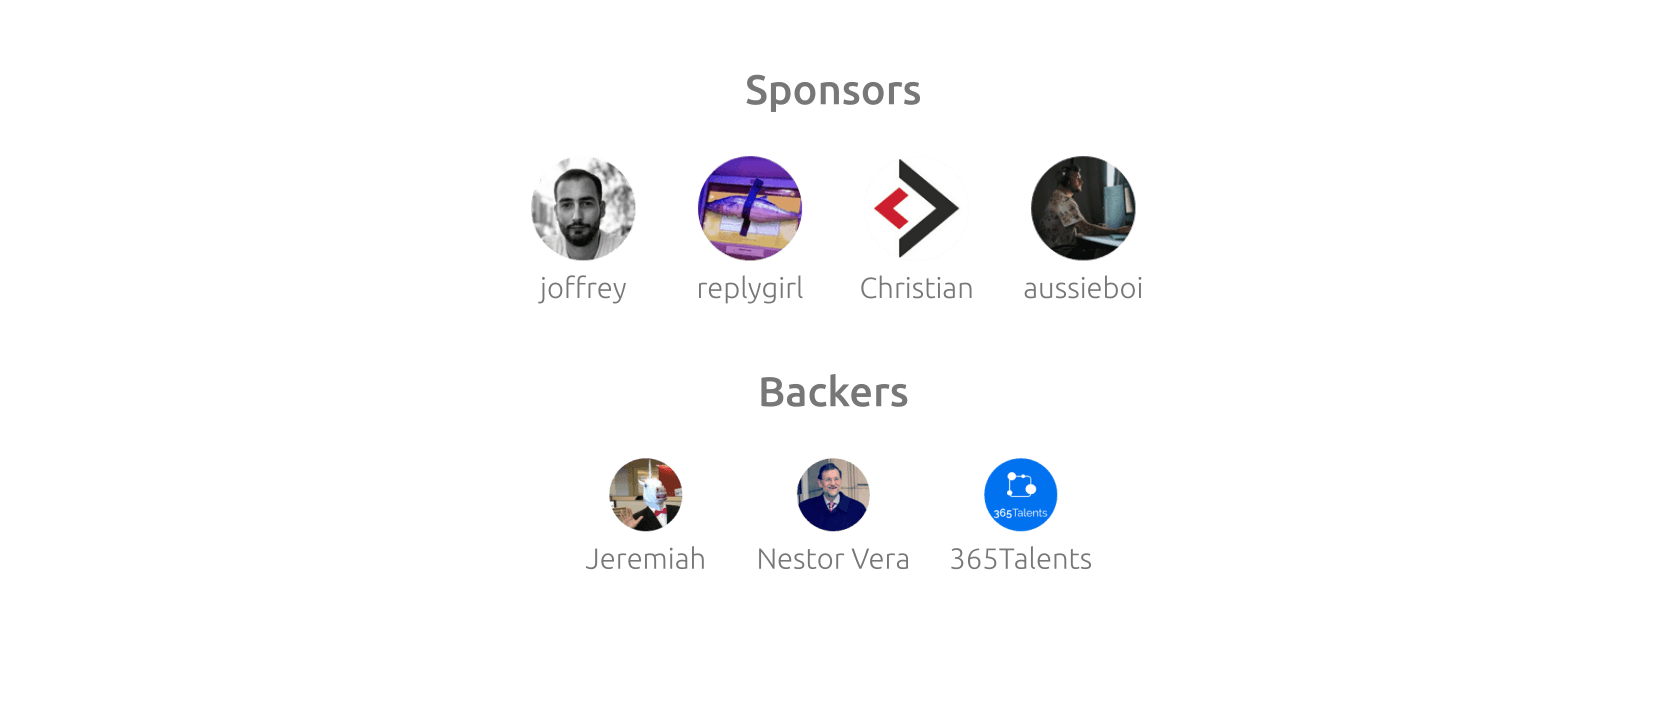
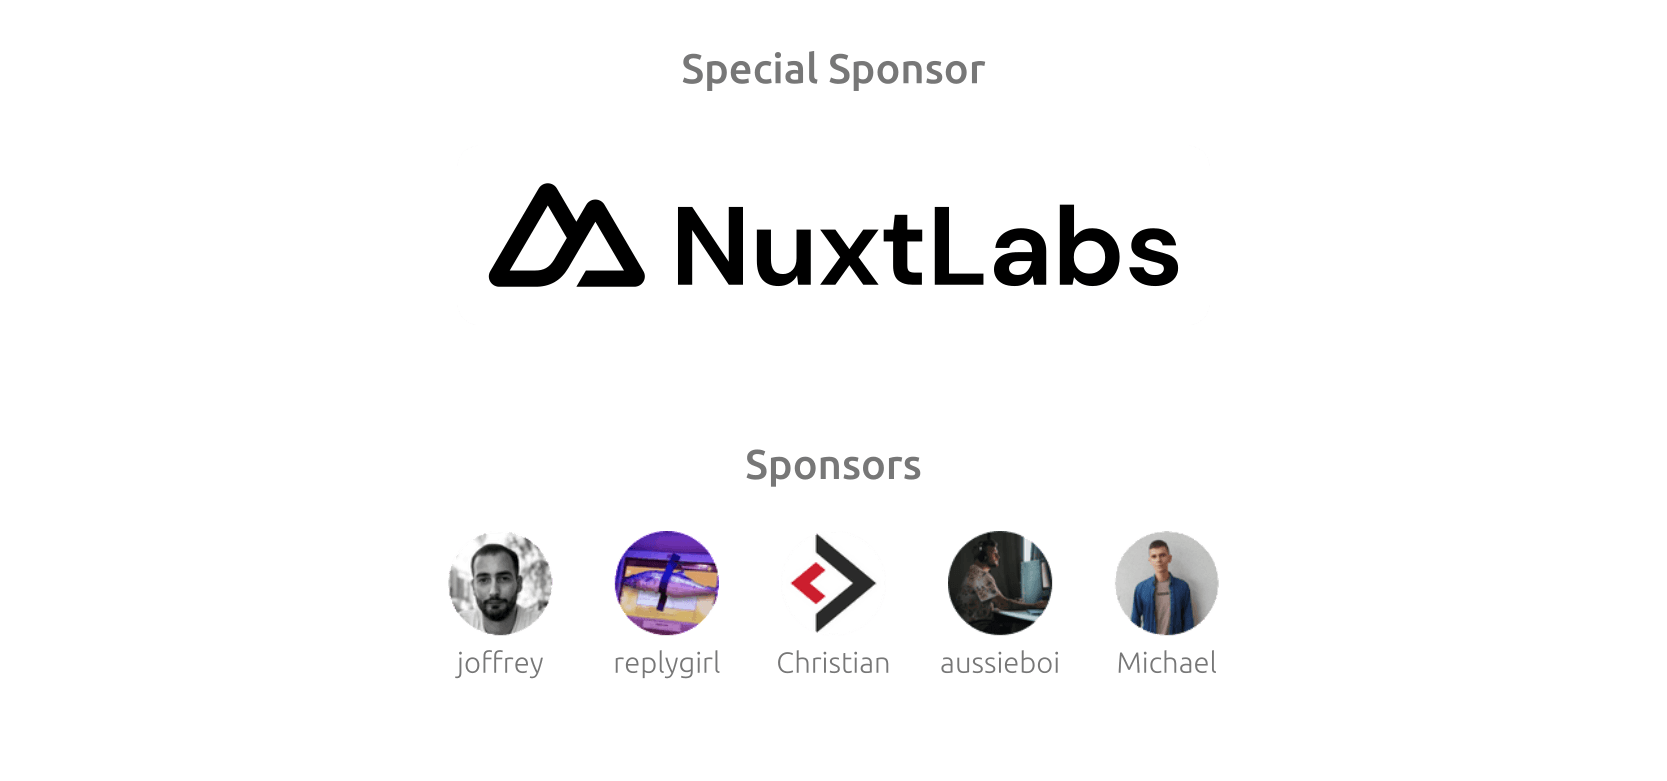
chore: add automation

diff --git a/sponsorkit.config.ts b/sponsorkit.config.ts
@@ -1,0 +1,53 @@
+import { defineConfig, presets } from 'sponsorkit'
+
+const NUXT_LOGO = (width: number, y: number) => `
+<a xlink:href="https://nuxtlabs.com" class="sponsorkit-link" target="_blank" id="NuxtLabs">
+<svg x="${(width - 361)/2}" y="${y}" width="361" height="86" viewBox="0 0 361 86" fill="none" xmlns="http://www.w3.org/2000/svg">
+<path d="M351 0H10C4.47715 0 0 4.47715 0 10V76C0 81.5229 4.47715 86 10 86H351C356.523 86 361 81.5229 361 76V10C361 4.47715 356.523 0 351 0Z" fill="white"/>
+<path d="M105.824 66.7106V29.3546H112.655L130.212 55.6646V29.3546H137.043V66.7106H130.212L112.655 40.4546V66.7106H105.824ZM154.051 67.3506C150.742 67.3506 148.181 66.3196 146.366 64.2556C144.587 62.1926 143.698 59.1686 143.698 55.1836V40.2416H150.475V54.5436C150.475 56.8206 150.938 58.5636 151.863 59.7736C152.788 60.9836 154.247 61.5876 156.239 61.5876C158.125 61.5876 159.672 60.9116 160.882 59.5596C162.127 58.2076 162.75 56.3226 162.75 53.9026V40.2416H169.581V66.7116H163.55L163.016 62.2286C162.198 63.7936 161.006 65.0386 159.441 65.9636C157.911 66.8886 156.114 67.3516 154.051 67.3516V67.3506ZM174.085 66.7106L183.69 53.4756L174.085 40.2416H181.396L188.12 49.6336L194.791 40.2416H202.155L192.496 53.4756L202.155 66.7106H194.791L188.12 57.3186L181.396 66.7106H174.085ZM218.301 66.7106C215.526 66.7106 213.302 66.0346 211.63 64.6826C209.958 63.3306 209.122 60.9296 209.122 57.4786V45.9506H204.586V40.2406H209.122L209.922 33.1426H215.953V40.2406H223.104V45.9506H215.953V57.5306C215.953 58.8116 216.22 59.7006 216.753 60.1996C217.323 60.6616 218.283 60.8926 219.635 60.8926H222.944V66.7096H218.301V66.7106ZM229.129 66.7106V29.3546H235.96V61.3746H252.503V66.7106H229.129ZM267.488 67.3506C265.211 67.3506 263.343 66.9956 261.884 66.2836C260.425 65.5366 259.34 64.5586 258.629 63.3486C257.917 62.1386 257.561 60.8046 257.561 59.3466C257.561 56.8916 258.522 54.8996 260.443 53.3696C262.364 51.8396 265.246 51.0746 269.089 51.0746H275.813V50.4346C275.813 48.6196 275.297 47.2856 274.265 46.4316C273.233 45.5776 271.952 45.1516 270.423 45.1516C269.035 45.1516 267.826 45.4886 266.794 46.1646C265.762 46.8046 265.122 47.7656 264.873 49.0466H258.202C258.38 47.1256 259.02 45.4536 260.123 44.0306C261.261 42.6076 262.72 41.5216 264.499 40.7746C266.278 39.9926 268.27 39.6006 270.476 39.6006C274.247 39.6006 277.218 40.5436 279.388 42.4296C281.558 44.3146 282.644 46.9836 282.644 50.4346V66.7106H276.827L276.186 62.4416C275.404 63.8646 274.301 65.0386 272.878 65.9636C271.49 66.8886 269.693 67.3516 267.488 67.3516V67.3506ZM269.035 62.0146C270.992 62.0146 272.504 61.3746 273.571 60.0936C274.674 58.8136 275.368 57.2296 275.653 55.3436H269.836C268.021 55.3436 266.723 55.6816 265.94 56.3576C265.157 56.9976 264.766 57.7986 264.766 58.7596C264.766 59.7916 265.157 60.5916 265.94 61.1606C266.723 61.7306 267.754 62.0146 269.035 62.0146ZM304.852 67.3506C302.859 67.3506 301.116 66.9776 299.622 66.2306C298.16 65.5119 296.91 64.427 295.993 63.0816L295.246 66.7116H289.162V28.2866H295.993V44.0306C296.847 42.8566 297.968 41.8246 299.355 40.9346C300.778 40.0456 302.61 39.6006 304.852 39.6006C307.342 39.6006 309.566 40.2056 311.523 41.4156C313.479 42.6256 315.027 44.2796 316.165 46.3786C317.304 48.4776 317.873 50.8616 317.873 53.5286C317.873 56.1986 317.304 58.5816 316.165 60.6806C315.027 62.7436 313.479 64.3806 311.523 65.5906C309.566 66.7646 307.342 67.3506 304.852 67.3506ZM303.411 61.3746C305.581 61.3746 307.378 60.6446 308.801 59.1866C310.224 57.7276 310.936 55.8416 310.936 53.5296C310.936 51.2166 310.224 49.3136 308.801 47.8196C307.378 46.3246 305.581 45.5776 303.411 45.5776C301.205 45.5776 299.391 46.3246 297.968 47.8196C296.58 49.2776 295.886 51.1636 295.886 53.4756C295.886 55.7886 296.58 57.6916 297.968 59.1856C299.391 60.6456 301.205 61.3746 303.411 61.3746ZM334.915 67.3506C332.567 67.3506 330.504 66.9776 328.725 66.2306C326.946 65.4476 325.523 64.3806 324.456 63.0286C323.388 61.6766 322.748 60.1116 322.534 58.3326H329.419C329.632 59.3646 330.201 60.2536 331.126 61.0006C332.087 61.7126 333.314 62.0676 334.809 62.0676C336.303 62.0676 337.388 61.7656 338.064 61.1606C338.775 60.5556 339.131 59.8626 339.131 59.0796C339.131 57.9406 338.633 57.1756 337.637 56.7846C336.641 56.3576 335.253 55.9486 333.474 55.5576C332.306 55.3009 331.149 54.9983 330.006 54.6506C328.832 54.2946 327.746 53.8496 326.75 53.3156C325.79 52.7466 325.007 52.0356 324.402 51.1816C323.797 50.2916 323.495 49.2066 323.495 47.9256C323.495 45.5776 324.42 43.6036 326.27 42.0026C328.156 40.4016 330.788 39.6006 334.168 39.6006C337.299 39.6006 339.789 40.3306 341.639 41.7886C343.525 43.2476 344.646 45.2586 345.002 47.8186H338.544C338.153 45.8626 336.676 44.8846 334.115 44.8846C332.834 44.8846 331.838 45.1336 331.126 45.6316C330.45 46.1296 330.112 46.7516 330.112 47.4986C330.112 48.2816 330.628 48.9046 331.66 49.3666C332.692 49.8296 334.061 50.2566 335.769 50.6476C337.619 51.0746 339.309 51.5546 340.839 52.0886C342.404 52.5866 343.65 53.3516 344.575 54.3836C345.5 55.3796 345.962 56.8206 345.962 58.7056C345.998 60.3426 345.571 61.8186 344.681 63.1356C343.792 64.4516 342.511 65.4836 340.839 66.2306C339.167 66.9776 337.192 67.3506 334.915 67.3506ZM57.0296 67.6906H84.8786C85.7636 67.6906 86.6326 67.4616 87.3986 67.0256C88.1623 66.5916 88.7983 65.9642 89.2426 65.2066C89.6839 64.4529 89.9163 63.5952 89.916 62.7218C89.9156 61.8484 89.6825 60.9909 89.2406 60.2376L70.5376 28.2936C70.0931 27.5363 69.4572 26.9093 68.6936 26.4756C67.9259 26.0384 67.0576 25.8085 66.1741 25.8085C65.2907 25.8085 64.4224 26.0384 63.6546 26.4756C62.8914 26.9094 62.2558 27.5364 61.8116 28.2936L57.0286 36.4676L47.6786 20.4846C47.2338 19.7272 46.5975 19.1002 45.8336 18.6666C45.0658 18.2297 44.1976 18 43.3141 18C42.4307 18 41.5625 18.2297 40.7946 18.6666C40.0308 19.1002 39.3945 19.7272 38.9496 20.4846L15.6756 60.2376C15.2336 60.991 15.0004 61.8487 15 62.7223C14.9996 63.5959 15.2322 64.4537 15.6736 65.2076C16.1181 65.9649 16.7541 66.5919 17.5176 67.0256C18.2856 67.4624 19.1541 67.6919 20.0376 67.6916H37.5196C44.4456 67.6916 49.5536 64.6916 53.0696 58.8386L61.6016 44.2656L66.1726 36.4676L79.8896 59.8926H61.6016L57.0286 67.6916L57.0296 67.6906ZM37.2346 59.8846L25.0346 59.8816L43.3226 28.6506L52.4476 44.2666L46.3376 54.7046C44.0036 58.5016 41.3516 59.8856 37.2346 59.8856V59.8846Z" fill="black"/>
+</svg>
+</a>
+`
+
+export default defineConfig({
+
+  outputDir: './',
+
+  // Providers configs
+  github: {
+    login: 'harlan-zw',
+  },
+
+  onSponsorsFetched(sponsors) {
+    // remove duplicate nuxt
+    const index = sponsors.findIndex(s => s.sponsor.name === 'Nuxt')
+    sponsors.splice(index, 1)
+    console.log(sponsors)
+  },
+  // Rendering configs
+  width: 800,
+  formats: ['json', 'svg', 'png'],
+  tiers: [
+    {
+      title: "Backers",
+      preset: presets.base
+    },
+    {
+      title: "Sponsors",
+      monthlyDollars: 5,
+      preset: presets.medium
+    },
+    {
+      title: 'Special Sponsor',
+      monthlyDollars: Infinity,
+      composeAfter(compose,_,config) {
+        compose
+          .addSpan(20)
+          .addText('Special Sponsor', 'sponsorkit-tier-title')
+          .addSpan(10)
+          .addRaw(NUXT_LOGO(config.width, compose.height))
+          .addSpan(140)
+      }
+    },
+  ],
+})
